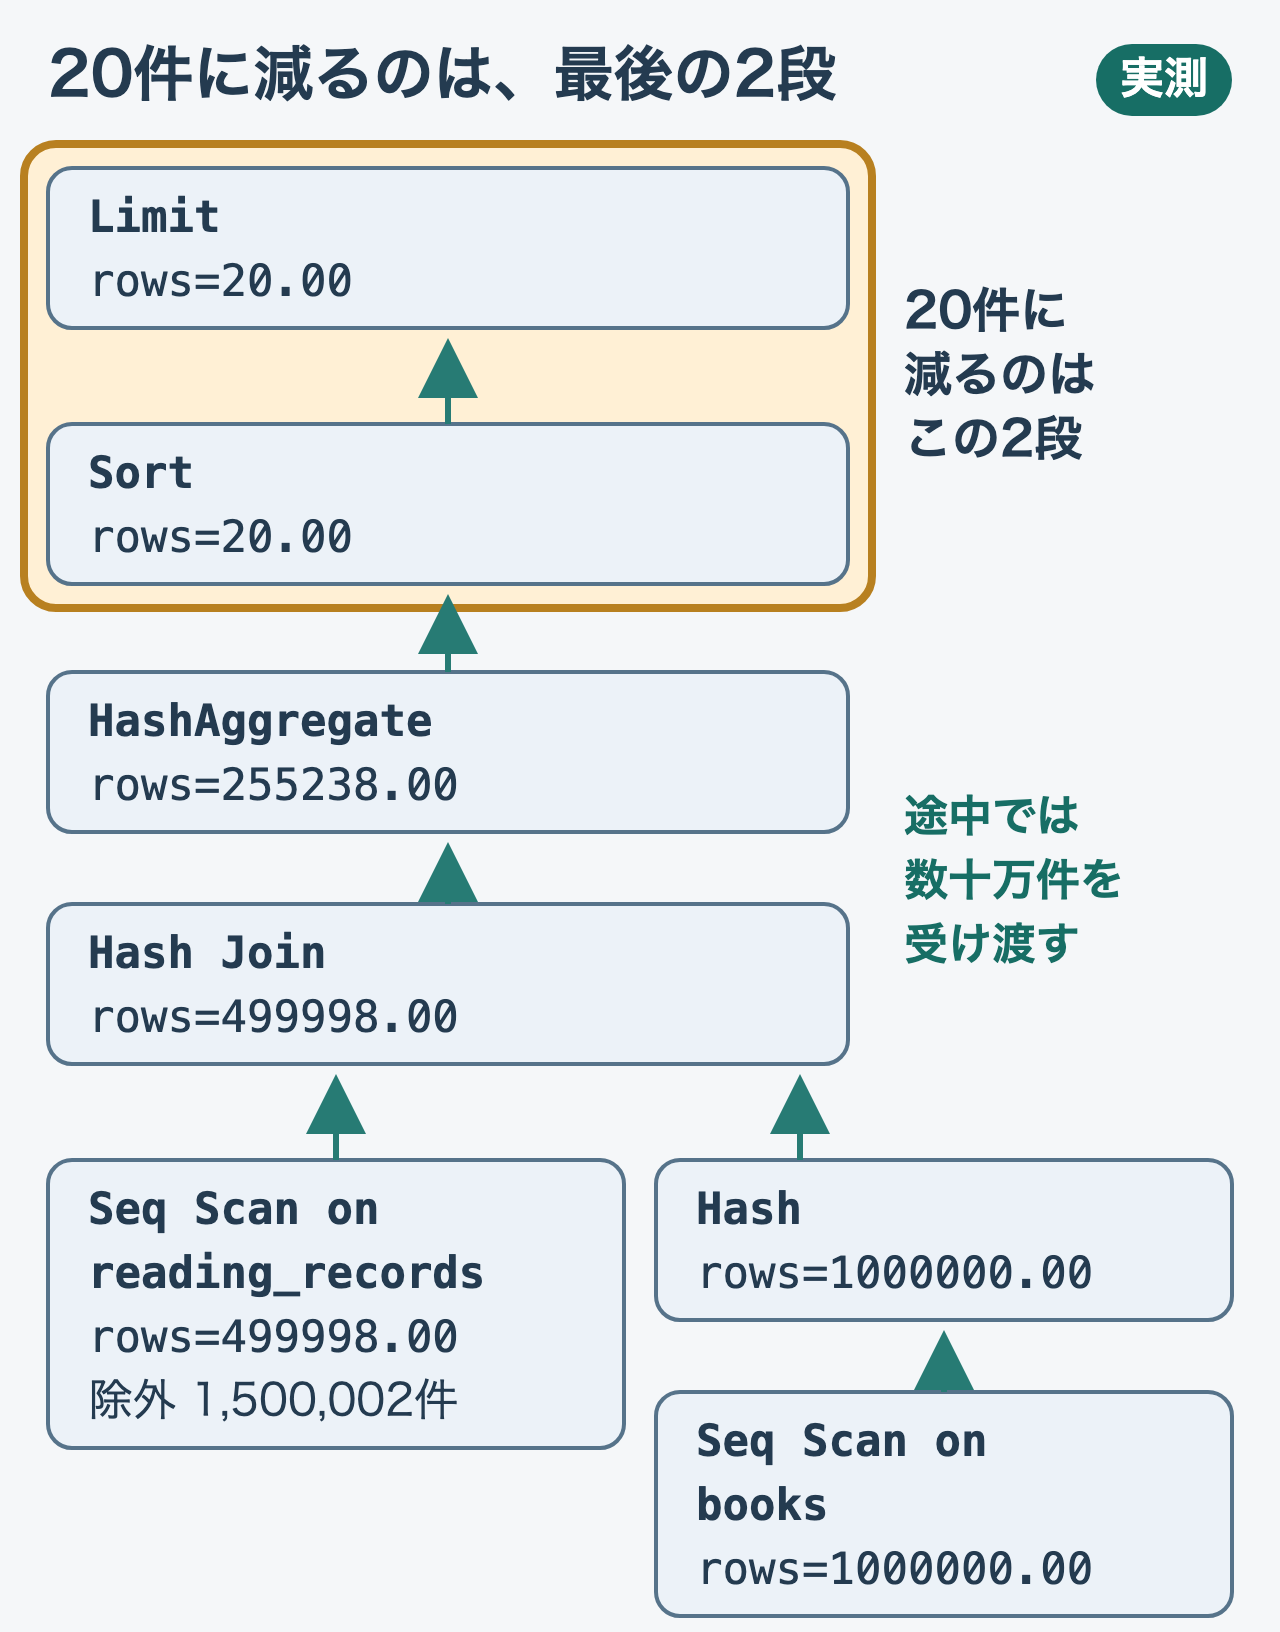
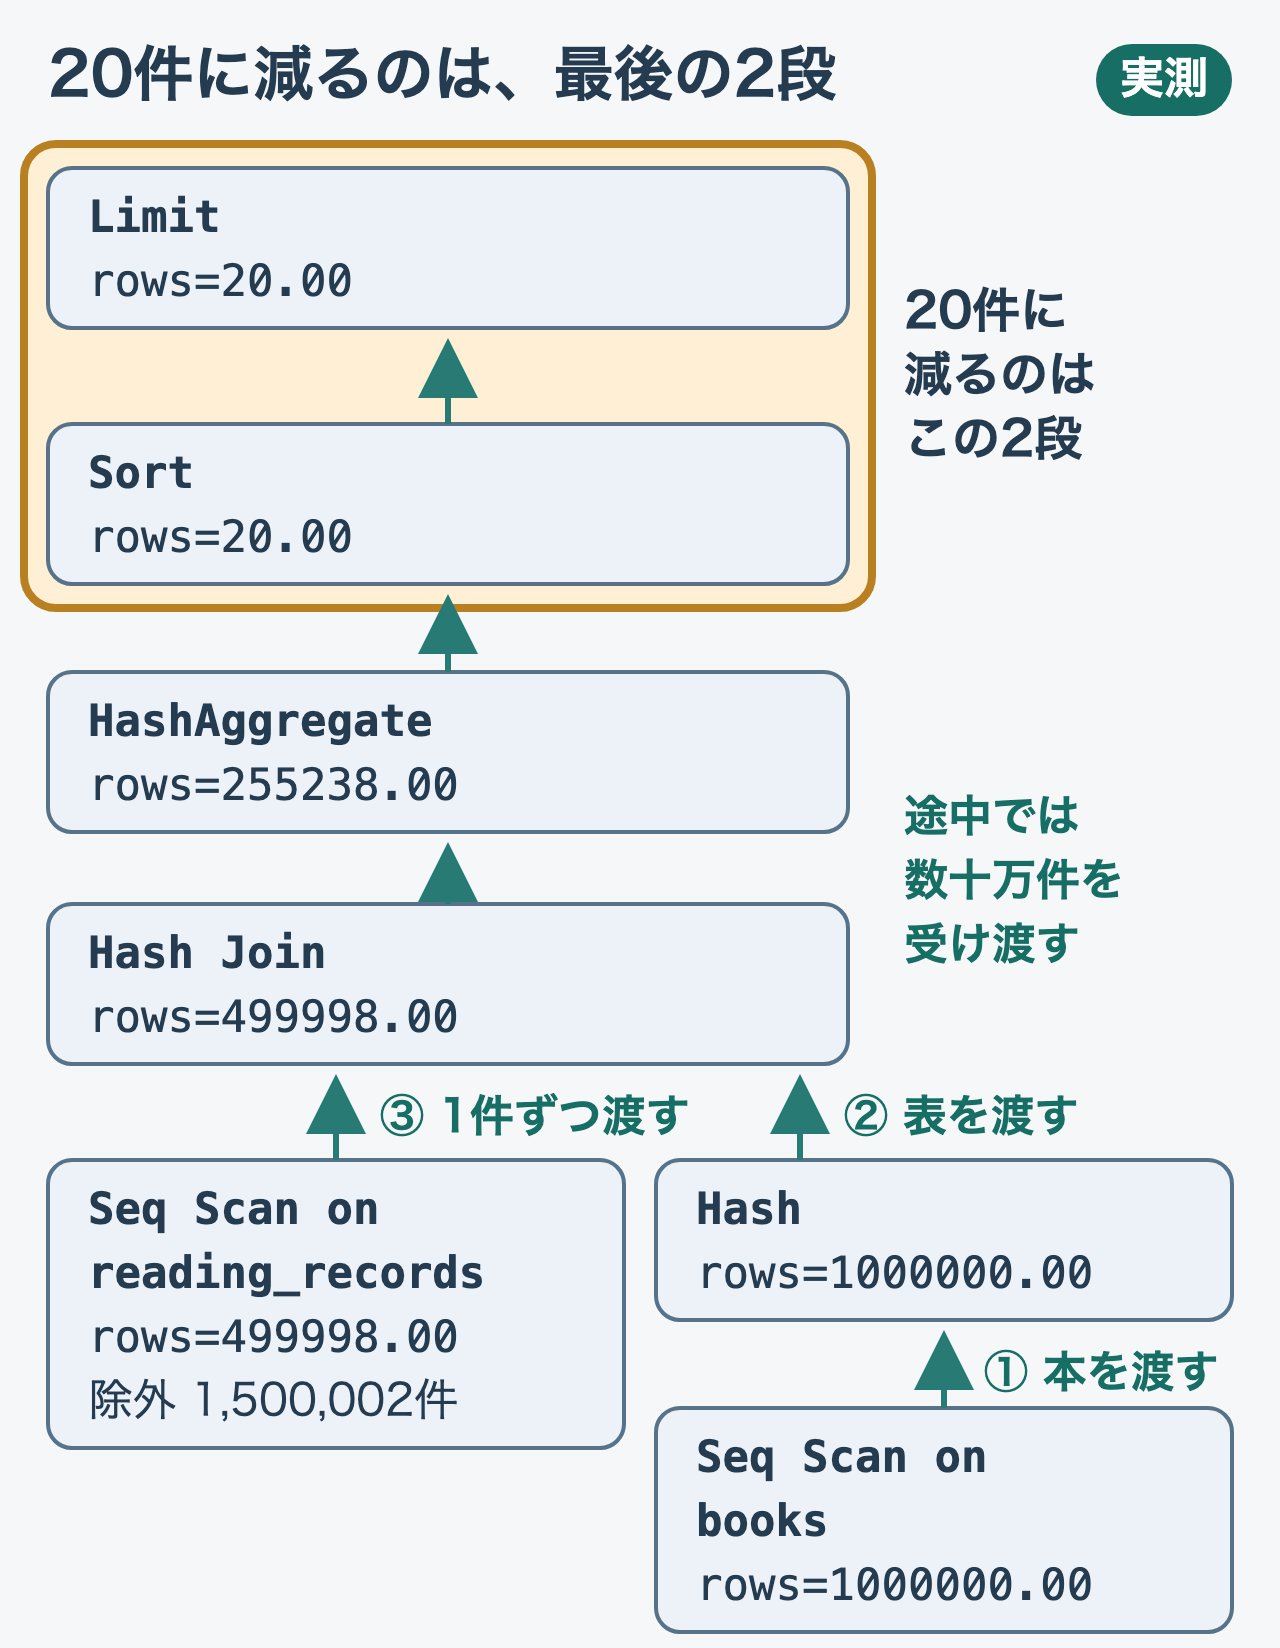
docs(query-journey): 第6章の Hash Join の受け渡しの図を足し、ランキングの計画の木に子を動かす順を書き足す
第6章の「子が二つある計画」は、Hash Join が Hash の側を先に動かしてから照合する順番を文章で説明していた。その順番を、02-execution-tree と同じ描き方（計画のノード、要求の破線、レコードの実線）で追える図にした。

- 02-hash-join-steps（新規・2コマ）：本42と本43の計画に合わせた。①は Hash Join が Hash に求め、Hash が Index Scan から2冊（rows=2.00）を受け取ってハッシュ表（42・43）を作り、表を渡す。Seq Scan はまだ動かない。②は Hash Join が Seq Scan に1件ずつ求め（rows=2000000.00）、表を引いて3件（rows=3.00）を返す。本文の説明の段落の直後に置いた。
- 02-ranking-plan-tree（直し）：本文の「Hash の側を最後まで動かしてから照合」と合わせて、Hash Join の下の矢印に ①本を渡す・②表を渡す・③1件ずつ渡す の番号を足した。キャプションと代替テキストも番号に合わせた。

diff --git a/books/postgresql-query-journey/06-process-and-execution.md b/books/postgresql-query-journey/06-process-and-execution.md
@@ -131,6 +131,11 @@ Execution Time: 262.495 ms
 
 表ができてから、`Hash Join`はもう一方の子の`Seq Scan`に、読了記録を1件ずつ求めます。受け取った記録の`book_id`（`Hash Cond`の条件）でハッシュ表を引き、本42か本43の記録なら題名を付けて親へ返します。`Seq Scan`が渡した200万件（`rows=2000000.00`）のうち、表で見つかった3件が、`Hash Join`の`rows=3.00`です。
 
+この受け渡しを、図で順に追ってみます。
+
+![Hash JoinがまずHashの側を動かして本42と本43のハッシュ表を作らせ、その後でSeq Scanから読了記録を1件ずつ受け取って表を引き、3件を返す](/images/postgresql-query-journey/02-hash-join-steps.png)
+*①で`Hash`の側が動き終えてから、②で`Seq Scan`が動き始めます（受け渡しを説明するための図。rowsは実測）。*
+
 出力では`Hash`が下に書かれていますが、先に動き終えるのは`Hash`の側です。子が並ぶ順番は、動く順番とは限りません。どの子をいつ動かすかは、親の処理が決めます。
 
 ## 長い計画を木として読む
@@ -188,8 +193,8 @@ Execution Time: 628.771 ms
 
 図で、各段の`rows`がどこで減るかを見てください。
 
-![ランキングの計画を木にすると、Seq Scanの499,998件と本の1,000,000件がHash Joinで499,998件になり、HashAggregateで255,238件、SortとLimitで20件になる](/images/postgresql-query-journey/02-ranking-plan-tree.png)
-*枠で囲んだ最後の2段まで、数十万件のレコードを受け渡しています（rowsは実測）。*
+![ランキングの計画を木にすると、Hashが本の1,000,000件を表にして先に渡し、その後にSeq Scanの499,998件をHash Joinが照合して499,998件になり、HashAggregateで255,238件、SortとLimitで20件になる](/images/postgresql-query-journey/02-ranking-plan-tree.png)
+*矢印の①〜③は`Hash Join`が子を動かす順で、枠で囲んだ最後の2段まで数十万件のレコードを受け渡しています（rowsは実測）。*
 
 20件に減るのは、最後の`Sort`と`Limit`です。それより前の処理は、何十万件ものレコードを受け渡しています。序章の「20冊しか返さないのに」という疑問の答えの一部が、ここに見えています。20件という結果の件数と、途中で扱うレコード数は別のものです。
 
